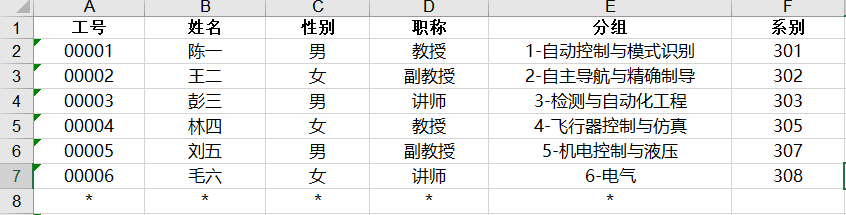
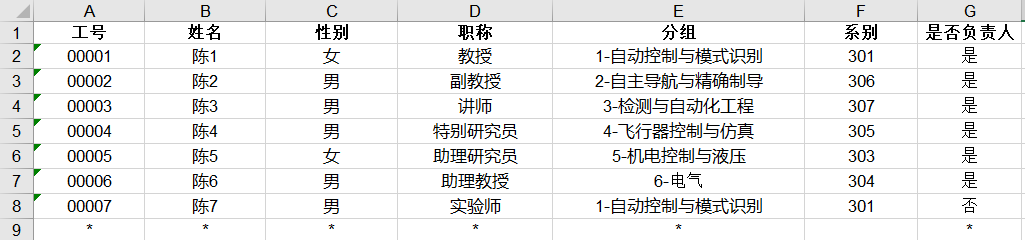
修复小bug

Changed region(s): [[0.0, 0.0, 1.0, 1.0], [0.9835, 0.6977, 1.0, 0.7256]]

diff --git a/routes/user/admin/admin.js b/routes/user/admin/admin.js
@@ -70,7 +70,8 @@ adminViews.get('/submitNotice', (req, res, next) => {
 }, views.render);
 adminViews.get('/sendEmail', (req, res, next) => {
     req.renderData = {
-        file: 'sendEmail'
+        file: 'sendEmail',
+        extraData: superApp.groupMap
     };
     next();
 }, views.render);
@@ -105,9 +106,21 @@ adminViews.get('/writeManual', (req, res, next) => {
     };
     next();
 }, views.render);
-adminViews.get('/importUser', (req, res, next) => {
+adminViews.get('/importInfo', (req, res, next) => {
     req.renderData = {
-        file: 'importUser'
+        file: 'importInfo'
+    };
+    next();
+}, views.render);
+adminViews.get('/exportInfo', (req, res, next) => {
+    req.renderData = {
+        file: 'exportInfo'
+    };
+    next();
+}, views.render);
+adminViews.get('/editInfo', (req, res, next) => {
+    req.renderData = {
+        file: 'editInfo'
     };
     next();
 }, views.render);
@@ -125,7 +138,7 @@ admin.post('/submitNotice', (req, res) => {
     }).catch(util.catchError(res));
 });
 admin.post('/sendEmail', (req, res, next) => {
-    let sql_query = 'SELECT email FROM ??';
+    let sql_query = 'SELECT email FROM dean WHERE `group`=?';
     mysql.find(sql_query, [req.body.identity]).then(results => {
         req.body.toAddr = results.map(x => x.email);
         next();
@@ -164,6 +177,13 @@ admin.post('/writeManual', (req, res) => {
 
 admin.post('/importStudent', upload.receiver.single('student'), excelImport.importStudent);
 admin.post('/importTeacher', upload.receiver.single('teacher'), excelImport.importTeacher);
+
+admin.get('/searchInfo',(req,res)=>{
+    
+});
+admin.post('/editInfo',(req,res)=>{
+
+});
 
 admin.post('/initState', (req, res) => {
     if (req.fsm.initialized) {

diff --git a/routes/application/excel-import.js b/routes/application/excel-import.js
@@ -50,9 +50,10 @@ function importTeacher(req, res) {
         account_id = index.indexOf('工号'),
         proTtle_id = index.indexOf('职称'),
         group_id = index.indexOf('分组'),
-        depart_id = index.indexOf('系别');
+        depart_id = index.indexOf('系别'),
+        dean_id = index.indexOf('是否负责人');
 
-    let raw = sheet[0].data, data = [];
+    let raw = sheet[0].data, data = [], dean = [];
     for (let i = 1; i < raw.length; i++) {
         let name = remove_space(raw[i][name_id]),
             gender = remove_space(raw[i][gender_id]),
@@ -64,14 +65,22 @@ function importTeacher(req, res) {
         let param = [account, password, name, gender, account, proTtle, group, depart, '[]'];
         if (util.paramIfValid(param)) {
             data.push(param);
+            if (dean_id > 0 && remove_space(raw[i][dean_id]) == '是') {
+                dean.push([account, password, name, gender, group]);
+            }
         }
     }
     sqlInsert('teacher', 'account, password, name, gender, teaNum, proTitle, `group`, department,bysj', data)
         .then(() => {
+            if (dean.length) {
+                return sqlInsert('dean', 'account, password, name, gender,`group`', dean);
+            } else {
+                return Promise.resolve();
+            }
+        }).then(() => {
             file.fs.unlinkSync(path);
             res.send('教师信息导入成功！');
         }).catch(util.catchError(res));
-
 }
 
 function sqlInsert(table, col, data) {

diff --git a/config.js b/config.js
@@ -38,9 +38,10 @@ global.superApp = {
         '讲师': 2,
         '副教授': 5,
         '教授': 7,
-        '特别研究员': 0,
-        '助理研究员': 0,
-        '助理教授': 0
+        '助理教授': 2,
+        '特别研究员': 7,
+        '助理研究员': 2,
+        '实验师': 2
     },
     specialtyMap: {
         1: '自动化',
@@ -79,7 +80,8 @@ global.superApp = {
         16: '未找到该学生！',
         17: '该方向对外名额已满！',
         18: '你选择的课题已生效，无法更改！',
-        19: '该学生已被其他老师确认！'
+        19: '该学生已被其他老师确认！',
+        20: '数据长度为0！'
     },
     resourses: {},
     userModules: {},

diff --git a/routes/application/email.js b/routes/application/email.js
@@ -23,7 +23,8 @@ function _send({ from = 'sasee_lab@163.com', password = '880424d', to, text = ''
             pass: password
         }
     });
-    return transporter.sendMail({ from, to, text, html, subject }).then(() => {
+    // Array.isArray(to) ? to.push(from) : (to = [to].push(from));
+    return transporter.sendMail({ from, to, text, html, subject, cc: from }).then(() => {
         console.log('邮件发送成功！');
     }).catch(err => {
         console.log('邮件发送失败！');
